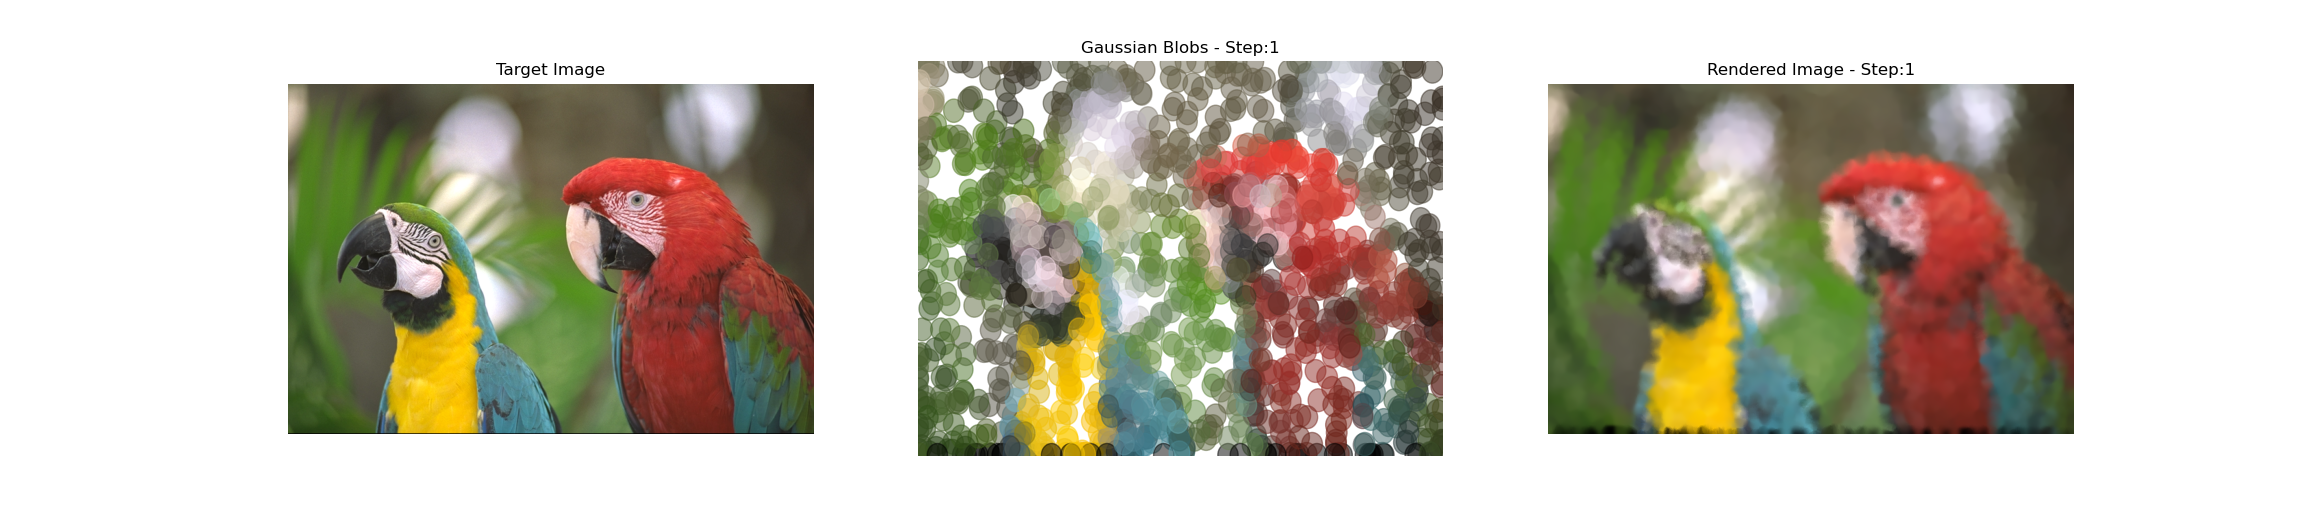
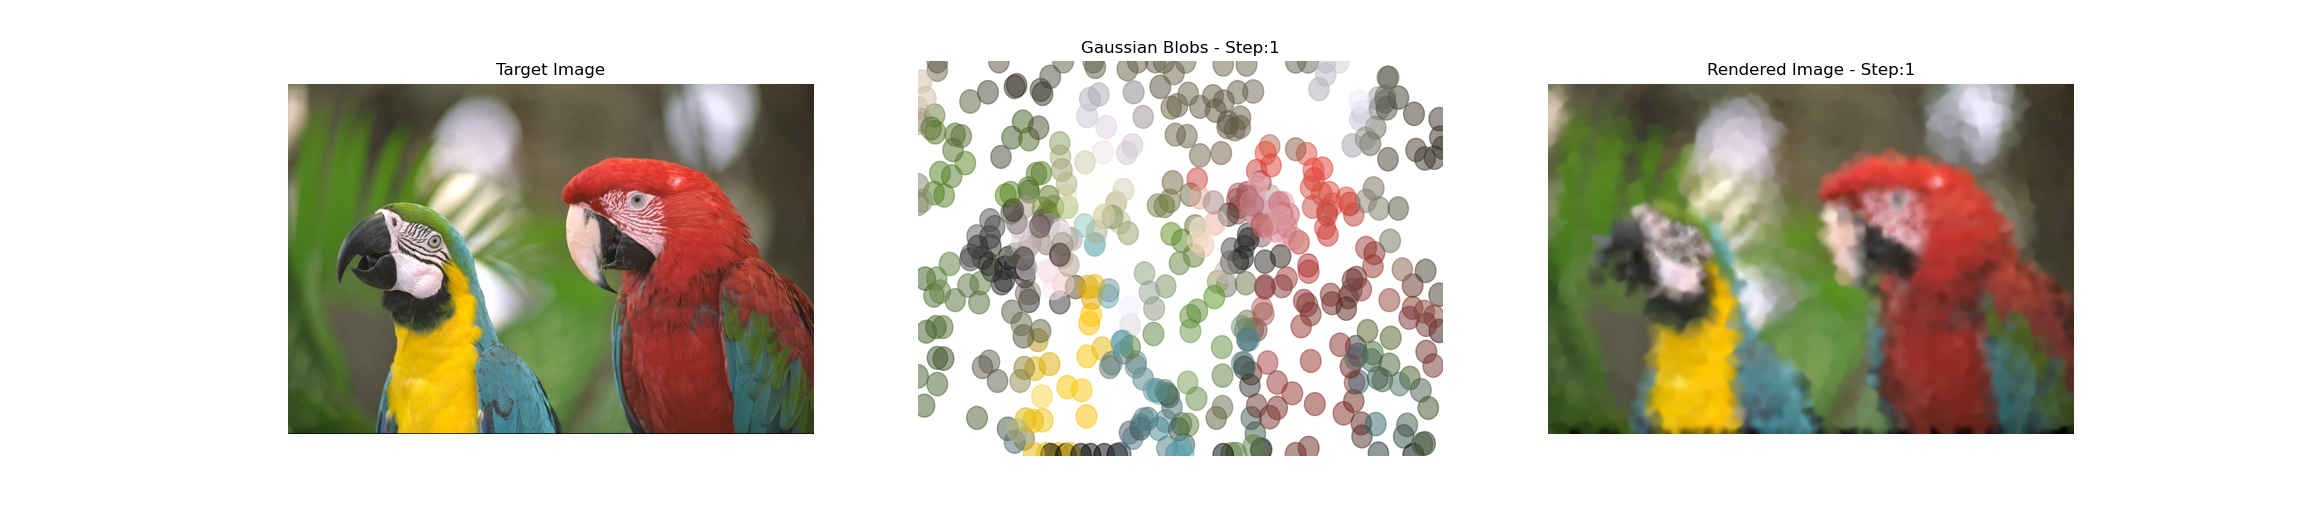
Add image

diff --git a/model.py b/model.py
@@ -39,6 +39,32 @@ def sample_pixels_from_prob(prob_map, n_samples, replace=False):
     ys, xs = (idx // W).long(), (idx % W).long()
     return xs, ys, idx
 
+def save_final_rendered_image(renderer, means, rotations, inv_scales, colors, debug, save_dir="output"):
+    os.makedirs(save_dir, exist_ok=True)
+
+    # Get final metrics
+    final_step = max(debug.keys())
+    metrics = debug[final_step]
+
+    # Render final image
+    final_rendered = renderer(means, rotations, inv_scales, colors).detach().cpu().clamp(0.0, 1.0)
+
+    # Convert to 8-bit per channel image
+    final_image_uint8 = (final_rendered.numpy() * 255).astype("uint8")
+    img_pil = Image.fromarray(final_image_uint8)
+
+    # Build safe filename
+    filename = (
+        f"Rendered_Ng{metrics['Ng']}_BPP{metrics['bpp']:.4f}_"
+        f"PSNR{metrics['PSNR']:.2f}_MSSSIM{metrics['MS-SSIM']:.4f}.png"
+    )
+    filename = filename.replace(" ", "_").replace(":", "-")
+    output_path = os.path.join(save_dir, filename)
+
+    # Save
+    img_pil.save(output_path)
+    print(f"Final rendered image saved to: {output_path}")
+
 # ------------------------------
 # Main Optimizer Class
 # ------------------------------
@@ -170,10 +196,10 @@ class ImageGSOptimizer:
 
             # Save debug info
             if step % visualize_interval == 0 or step == 1 or step == self.steps:
-                saved_debug[step] = {"loss": loss.item(), "N": N_current, "rendered": rendered.detach().cpu()}
+                saved_debug[step] =  self.evaluate(rendered, N_current)
                 self.visualize(step, means, inv_scales, rotations, colors, rendered, plot=False)
 
-        self.visualize('Final', means, inv_scales, rotations, colors, rendered, plot=True)
+        #self.visualize('Final', means, inv_scales, rotations, colors, rendered, plot=True)
 
         return means, rotations, inv_scales, colors, saved_debug
     
@@ -199,7 +225,7 @@ class ImageGSOptimizer:
         
         # Sample 20% of the Gaussians
         N = means_np.shape[0]
-        sample_size = max(1, N // 5)  # at least one
+        sample_size = max(1, N // 10)  # at least one
         sample_indices = np.random.choice(N, sample_size, replace=False)
 
         for idx in sample_indices:
@@ -232,6 +258,27 @@ class ImageGSOptimizer:
             plt.savefig(os.path.join(self.save_dir,'visualization_step_'+str(step)+'.png')) 
             plt.close(fig)
 
+    def evaluate(self, rendered, N_current):
+        # Ensure rendered is clamped and float
+        rendered = rendered.detach().cpu().clamp(0.0, 1.0)
+        target = self.target_image.detach().cpu().clamp(0.0, 1.0)
+
+        # PSNR
+        mse = F.mse_loss(rendered, target).item()
+        psnr = 10 * math.log10(1.0 / (mse + 1e-12))
+
+        # MS-SSIM
+        rendered_tensor = rendered.permute(2,0,1).unsqueeze(0)  # [1,C,H,W]
+        target_tensor = target.permute(2,0,1).unsqueeze(0)
+        ms_ssim_val = self.ms_ssim_fn(rendered_tensor, target_tensor).item()
+
+        # Bits per pixel (bpp)
+        bytes_per_float = 4  # float32
+        total_bytes = N_current* (2 + 1 + 2 + 3) * bytes_per_float
+        bpp = total_bytes / (self.H * self.W)
+
+        return {"PSNR": psnr, "MS-SSIM": ms_ssim_val, "bpp": bpp, "Ng": N_current}
+
 
 if __name__ == "__main__":
 
@@ -246,5 +293,7 @@ if __name__ == "__main__":
     target_image = transform(img_pil).permute(1, 2, 0).to(device)  # [H,W,3]
 
     optimizer = ImageGSOptimizer(target_image, save_dir="gs_output", device=device,
-                                 N_total=20000, steps=1500, H_t=16, W_t=16, add_interval=250)
+                                 N_total=10000, steps=1500, H_t=16, W_t=16, add_interval=250)
     means, rotations, inv_scales, colors, debug = optimizer.optimize()
+
+    save_final_rendered_image(optimizer.renderer, means, rotations, inv_scales, colors, debug, save_dir="gs_output")

diff --git a/cuda_engine/setup.py b/cuda_engine/setup.py
@@ -6,7 +6,7 @@ setup(
     packages=["cuda_engine"],  # declare package
     ext_modules=[
         CUDAExtension(
-            name="cuda_engine.gaussian_renderer_cuda",  # fully qualified module name
+            name="cuda_engine.gaussian_renderer_cuda",  
             sources=["cuda_engine/gaussian_renderer.cu"],
             extra_compile_args={
                 "cxx": ["-O3"],

diff --git a/README.md b/README.md
@@ -7,5 +7,5 @@ This repository contains my implementation of **[Image-GS: Content-Adaptive Imag
 - Integrated with **PyTorch** for optimization and the rest of the training pipeline.  
 
 ## Reference
-If you use this code, please cite the original paper:
+If you use this code, please cite the original paper.
 
